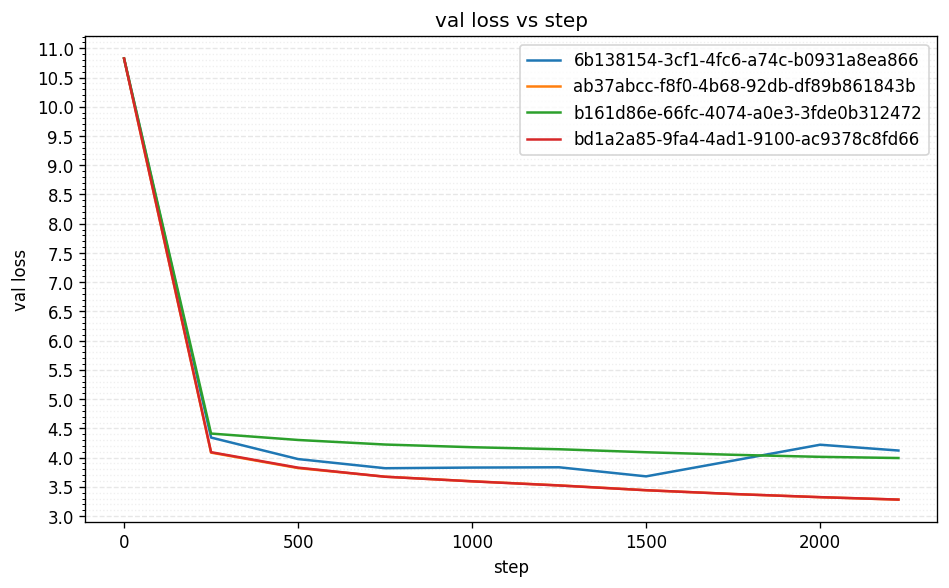
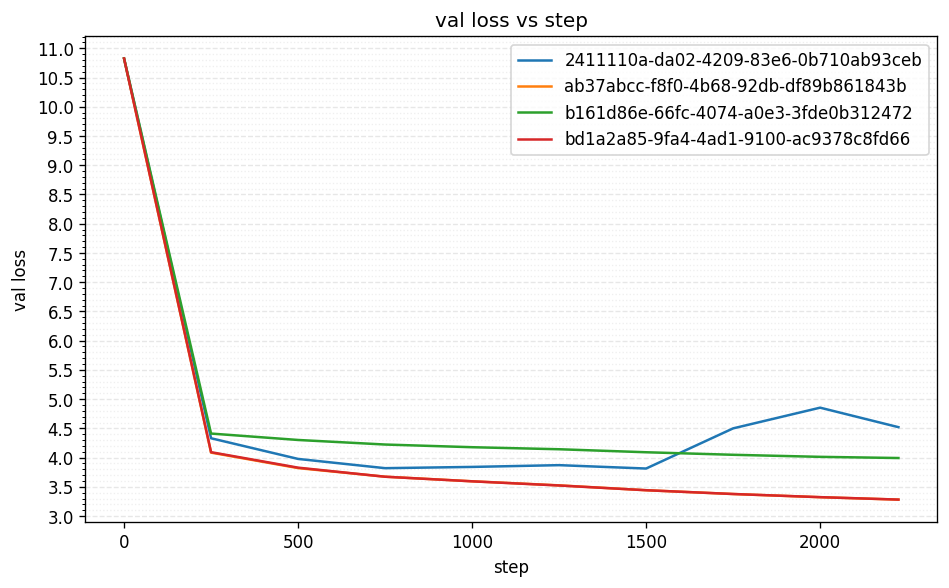
sparse

diff --git a/sparse_train.py b/sparse_train.py
@@ -881,29 +881,39 @@ class CausalSelfAttention(nn.Module):
             self.q_down = nn.Parameter(torch.empty(mla_kv_dim, self.dim))
             self.q_up_nope = nn.Parameter(torch.empty(self.hdim, mla_kv_dim))
             self.q_rope = nn.Parameter(torch.empty(num_heads * mla_rope_dim, mla_kv_dim))
+            self.q_rope_out = nn.Parameter(torch.empty(self.hdim, num_heads * mla_rope_dim))
             self.kv_down = nn.Parameter(torch.empty(mla_kv_dim * 2, self.dim))
             self.k_rope = nn.Parameter(torch.empty(mla_rope_dim, self.dim))
+            self.k_rope_out = nn.Parameter(torch.empty(self.num_heads * self.head_dim, mla_rope_dim))
+            self.k_up = nn.Parameter(torch.empty(self.num_heads * self.head_dim, mla_kv_dim))
+            self.v_up = nn.Parameter(torch.empty(self.num_heads * self.head_dim, mla_kv_dim))
             self.o_w = nn.Parameter(torch.empty(self.hdim, self.dim))
+            self.o_mla = nn.Parameter(torch.empty(self.hdim, self.num_heads * mla_kv_dim))
 
-            for p in [self.q_down, self.q_up_nope, self.q_rope, self.kv_down, self.k_rope, self.o_w]:
+            for p in [self.q_down, self.q_up_nope, self.q_rope, self.q_rope_out, self.kv_down, self.k_rope, self.k_rope_out, self.k_up, self.v_up, self.o_w, self.o_mla]:
                 p.label = 'attn'
 
             with torch.no_grad():
                 self.q_down.uniform_(-bound, bound)
                 self.q_up_nope.uniform_(-bound, bound)
                 self.q_rope.uniform_(-bound, bound)
+                self.q_rope_out.uniform_(-bound, bound)
                 self.kv_down.uniform_(-bound, bound)
                 self.k_rope.uniform_(-bound, bound)
+                self.k_rope_out.uniform_(-bound, bound)
+                self.k_up.uniform_(-bound, bound)
+                self.v_up.uniform_(-bound, bound)
                 self.o_w.zero_()
+                self.o_mla.zero_()
 
             if attn_mode == "dsa":
-                self.indexer_q = nn.Parameter(torch.empty(num_heads, mla_kv_dim))
-                self.indexer_k = nn.Parameter(torch.empty(mla_kv_dim, self.dim))
-                self.indexer_q.label = 'attn'
-                self.indexer_k.label = 'attn'
+                self.indexer_q_w = nn.Parameter(torch.empty(num_heads * mla_kv_dim, self.dim))
+                self.indexer_k_w = nn.Parameter(torch.empty(num_heads * mla_kv_dim, self.dim))
+                self.indexer_q_w.label = 'attn'
+                self.indexer_k_w.label = 'attn'
                 with torch.no_grad():
-                    self.indexer_q.uniform_(-bound, bound)
-                    self.indexer_k.uniform_(-bound, bound)
+                    self.indexer_q_w.uniform_(-bound, bound)
+                    self.indexer_k_w.uniform_(-bound, bound)
         else:
             raise ValueError(f"Unknown attn_mode: {attn_mode}")
 
@@ -977,59 +987,57 @@ class CausalSelfAttention(nn.Module):
             assert rope_cos.size(-1) == rope_dim, "YaRN rope dims must cover MLA rope size"
             q_rope_latent = F.linear(c_q, self.q_rope.type_as(c_q)).view(B, T, self.num_heads, self.mla_rope_dim)
             q_rope_latent = rotary(q_rope_latent, rope_cos, rope_sin)
-
-            q = q_nope
+            q_rope_proj = F.linear(q_rope_latent.view(B, T, -1), self.q_rope_out.type_as(c_q)).view(B, T, self.num_heads, self.head_dim)
+            q = q_nope + q_rope_proj
 
             k_rope = F.linear(x, self.k_rope.type_as(x))
             k_rope = rotary(k_rope.unsqueeze(2), rope_cos, rope_sin).squeeze(2)
+            k_rope_proj = F.linear(k_rope, self.k_rope_out.type_as(k_rope)).view(B, T, self.num_heads, self.head_dim)
 
-            k_nope = c_k_nope.unsqueeze(2).expand(B, T, self.num_heads, self.mla_kv_dim)[..., :self.head_dim]
-            k = k_nope
+            k_nope = F.linear(c_k_nope, self.k_up.type_as(x)).view(B, T, self.num_heads, self.head_dim)
+            k = k_nope + k_rope_proj
 
-            v = c_v.unsqueeze(2).expand(B, T, self.num_heads, self.mla_kv_dim)[..., :self.head_dim]
+            v = F.linear(c_v, self.v_up.type_as(x)).view(B, T, self.num_heads, self.head_dim)
 
             if ve is not None:
-                v = sa_lambdas[0] * v + sa_lambdas[1] * ve.view_as(v)
+                v = sa_lambdas[0] * v + sa_lambdas[1] * ve.view(B, T, self.num_heads, self.head_dim).expand_as(v)
             else:
                 v = sa_lambdas[0] * v
 
             if self.attn_mode == "dsa":
-                indexer_k = F.linear(x, self.indexer_k.type_as(x))
-                indexer_scores = torch.einsum('hd,btd->bht', self.indexer_q.type_as(indexer_k), indexer_k)
+                indexer_q = F.linear(x, self.indexer_q_w.type_as(x)).view(B, T, self.num_heads, self.mla_kv_dim)
+                indexer_k = F.linear(x, self.indexer_k_w.type_as(x)).view(B, T, self.num_heads, self.mla_kv_dim)
+                indexer_scores = torch.einsum('bthd,bshd->bhts', indexer_q, indexer_k)
 
                 causal_mask = torch.triu(torch.ones(T, T, device=x.device, dtype=torch.bool), diagonal=1)
-                causal_mask = causal_mask.view(1, 1, T, T)
-                indexer_scores = indexer_scores.unsqueeze(-2)
-                indexer_scores = indexer_scores.masked_fill(causal_mask, float('-inf')).squeeze(-2)
+                indexer_scores = indexer_scores.masked_fill(causal_mask.view(1, 1, T, T), float('-inf'))
 
                 k_sparse = min(self.dsa_topk, T)
                 topk_scores, topk_indices = torch.topk(indexer_scores, k=k_sparse, dim=-1)
 
-                # Gather top-k K/V per head (shared for all queries in that head)
-                k_src = k.permute(0, 2, 1, 3)  # (B, H, T, D)
-                v_src = v.permute(0, 2, 1, 3)  # (B, H, T, D)
-                gather_idx = topk_indices.unsqueeze(-1).expand(-1, -1, -1, self.head_dim)
-                k_sel = torch.take_along_dim(k_src, gather_idx, dim=2)  # (B, H, k, D)
-                v_sel = torch.take_along_dim(v_src, gather_idx, dim=2)  # (B, H, k, D)
+                k_heads = k.permute(0, 2, 1, 3)  # (B, H, T, D)
+                v_heads = v.permute(0, 2, 1, 3)
+                gather_idx = topk_indices.unsqueeze(-1).expand(-1, -1, -1, -1, self.head_dim)  # (B,H,T,k,D)
+                k_sel = torch.gather(k_heads.unsqueeze(2).expand(-1, -1, T, -1, -1), 3, gather_idx)
+                v_sel = torch.gather(v_heads.unsqueeze(2).expand(-1, -1, T, -1, -1), 3, gather_idx)
 
-                # Compute attention to selected tokens
-                q_heads = q.permute(0, 2, 1, 3)  # (B, H, T, D)
-                scores = torch.einsum('bhtd,bhkd->bhtk', q_heads, k_sel) * attn_scale
+                q_heads = q.permute(0, 2, 1, 3)  # (B,H,T,D)
+                scores = (q_heads.unsqueeze(3) * k_sel).sum(dim=-1) * attn_scale  # (B,H,T,k)
 
-                # Causal mask relative to selected indices
                 arange_t = torch.arange(T, device=x.device).view(1, 1, T, 1)
-                causal_mask_sel = topk_indices.unsqueeze(2) > arange_t  # (B, H, T, k)
+                causal_mask_sel = topk_indices > arange_t
                 scores = scores.masked_fill(causal_mask_sel, float('-inf'))
 
                 attn_prob = torch.softmax(scores, dim=-1)
-                y_heads = torch.einsum('bhtk,bhkd->bhtd', attn_prob, v_sel)
-                y = y_heads.permute(0, 2, 1, 3).contiguous()  # (B, T, H, D)
+                y_heads = torch.einsum('bhtk,bhtkd->bhtd', attn_prob, v_sel)
+                y = y_heads.permute(0, 2, 1, 3).contiguous()
             else:
                 y = flash_attn_interface.flash_attn_varlen_func(q[0], k[0], v[0], cu_seqlens_q=seqlens, cu_seqlens_k=seqlens,
                                                                 max_seqlen_q=max_len, max_seqlen_k=max_len,
                                                                 causal=True, softmax_scale=attn_scale, window_size=(bm_size, 0))
                 y = y.view(B, T, self.num_heads, self.head_dim)
 
+            y = F.linear(y.view(B, T, -1), self.o_mla.type_as(y)).view(B, T, self.num_heads, self.head_dim)
             y = y * torch.sigmoid(self.attn_gate(x[..., :self.attn_gate.weight.size(-1)])).view(B, T, self.num_heads, 1)
             y = y.contiguous().view(B, T, self.num_heads * self.head_dim)
             y = F.linear(y, self.o_w.type_as(y))
